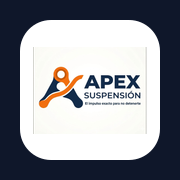
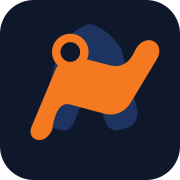
fix: iconos PWA sin caja blanca + refresco de cache

diff --git a/src/components/ApexLandingPage.tsx b/src/components/ApexLandingPage.tsx
@@ -91,6 +91,12 @@ export default function ApexLandingPage() {
               Catálogo
             </Link>
             <a
+              href="#pagos"
+              className="hidden sm:inline text-xs sm:text-sm font-semibold text-gray-300 hover:text-[oklch(0.7_0.2_40)] transition-colors"
+            >
+              Pagos y garantía
+            </a>
+            <a
               href="#despacho"
               className="text-xs sm:text-sm font-semibold text-gray-300 hover:text-[oklch(0.7_0.2_40)] transition-colors"
             >
@@ -123,15 +129,17 @@ export default function ApexLandingPage() {
             <ArrowRight className="w-5 h-5 ml-1" />
           </a>
 
-          <div className="mt-4 flex items-center justify-center gap-4 text-sm">
+          <div className="mt-4 flex flex-col sm:flex-row items-center justify-center gap-3 text-sm">
             <Link
               to="/catalogo"
-              className="text-gray-300 hover:text-[oklch(0.7_0.2_40)] font-semibold"
+              className="inline-flex items-center justify-center rounded-full border border-white/10 bg-white/5 px-4 py-2 font-semibold text-gray-200 hover:border-[oklch(0.7_0.2_40)]/40 hover:text-[oklch(0.7_0.2_40)] transition-colors"
             >
               Ver catálogo
             </Link>
-            <span className="text-gray-700">|</span>
-            <a href="#pagos" className="text-gray-300 hover:text-[oklch(0.7_0.2_40)] font-semibold">
+            <a
+              href="#pagos"
+              className="inline-flex items-center justify-center rounded-full border border-white/10 bg-black/20 px-4 py-2 font-semibold text-gray-200 hover:border-[oklch(0.7_0.2_40)]/40 hover:text-[oklch(0.7_0.2_40)] transition-colors"
+            >
               Ver pagos y garantía
             </a>
           </div>

diff --git a/public/sw.js b/public/sw.js
@@ -1,6 +1,14 @@
 // Increment this when shipping a new release to force cache refresh.
-const CACHE_NAME = "apex-suspension-pwa-v2";
-const APP_SHELL = ["/", "/manifest.webmanifest", "/icon.svg", "/icon-maskable.svg"];
+const CACHE_NAME = "apex-suspension-pwa-v3";
+const APP_SHELL = [
+  "/",
+  "/manifest.webmanifest",
+  "/icon.svg",
+  "/icon-maskable.svg",
+  "/icon-192.png",
+  "/icon-512.png",
+  "/apple-touch-icon.png",
+];
 
 self.addEventListener("install", (event) => {
   event.waitUntil(
